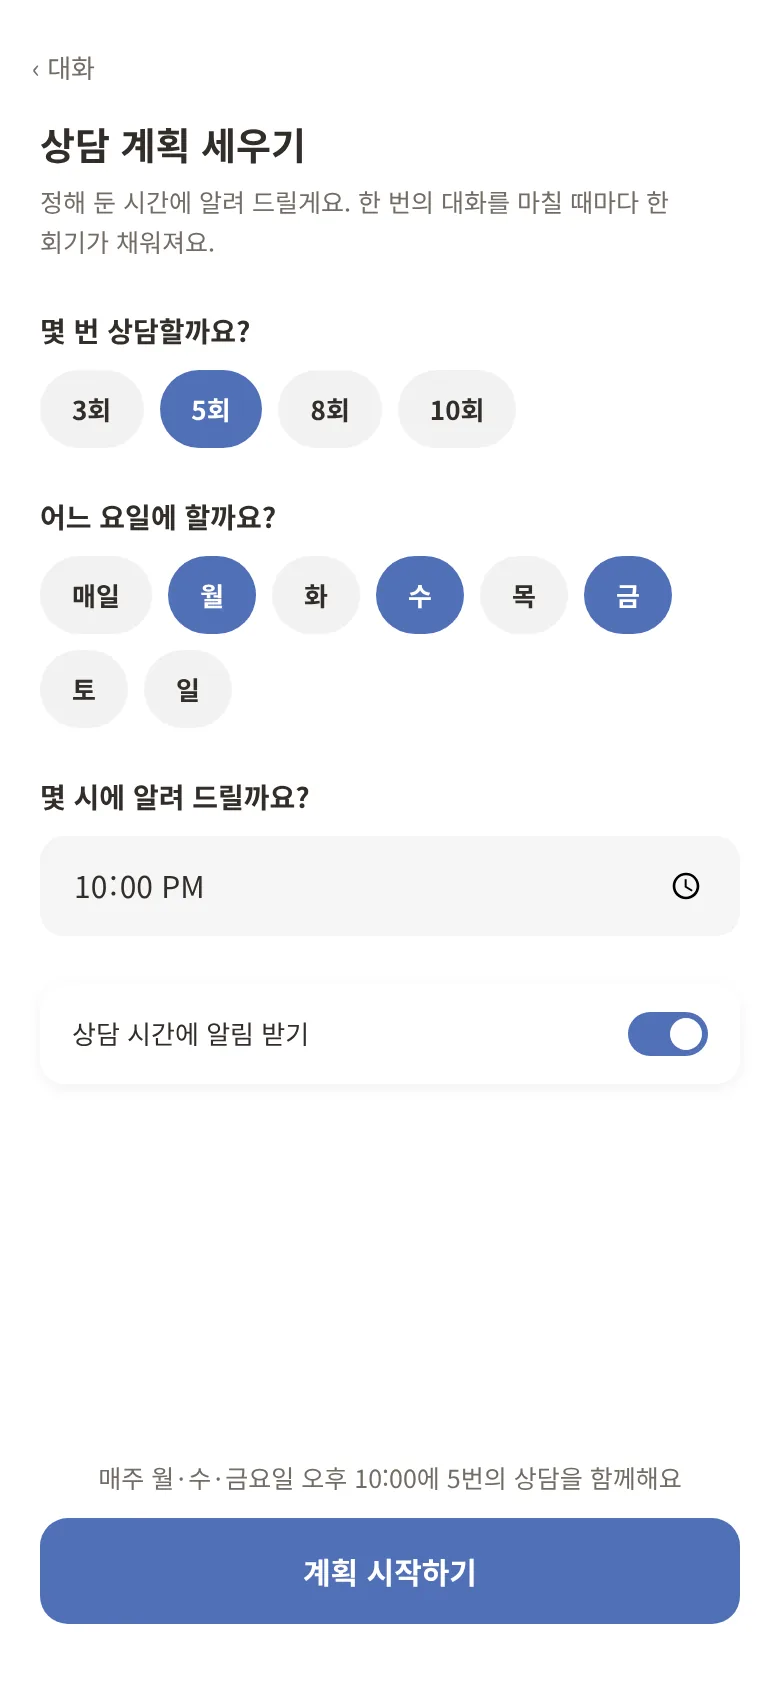
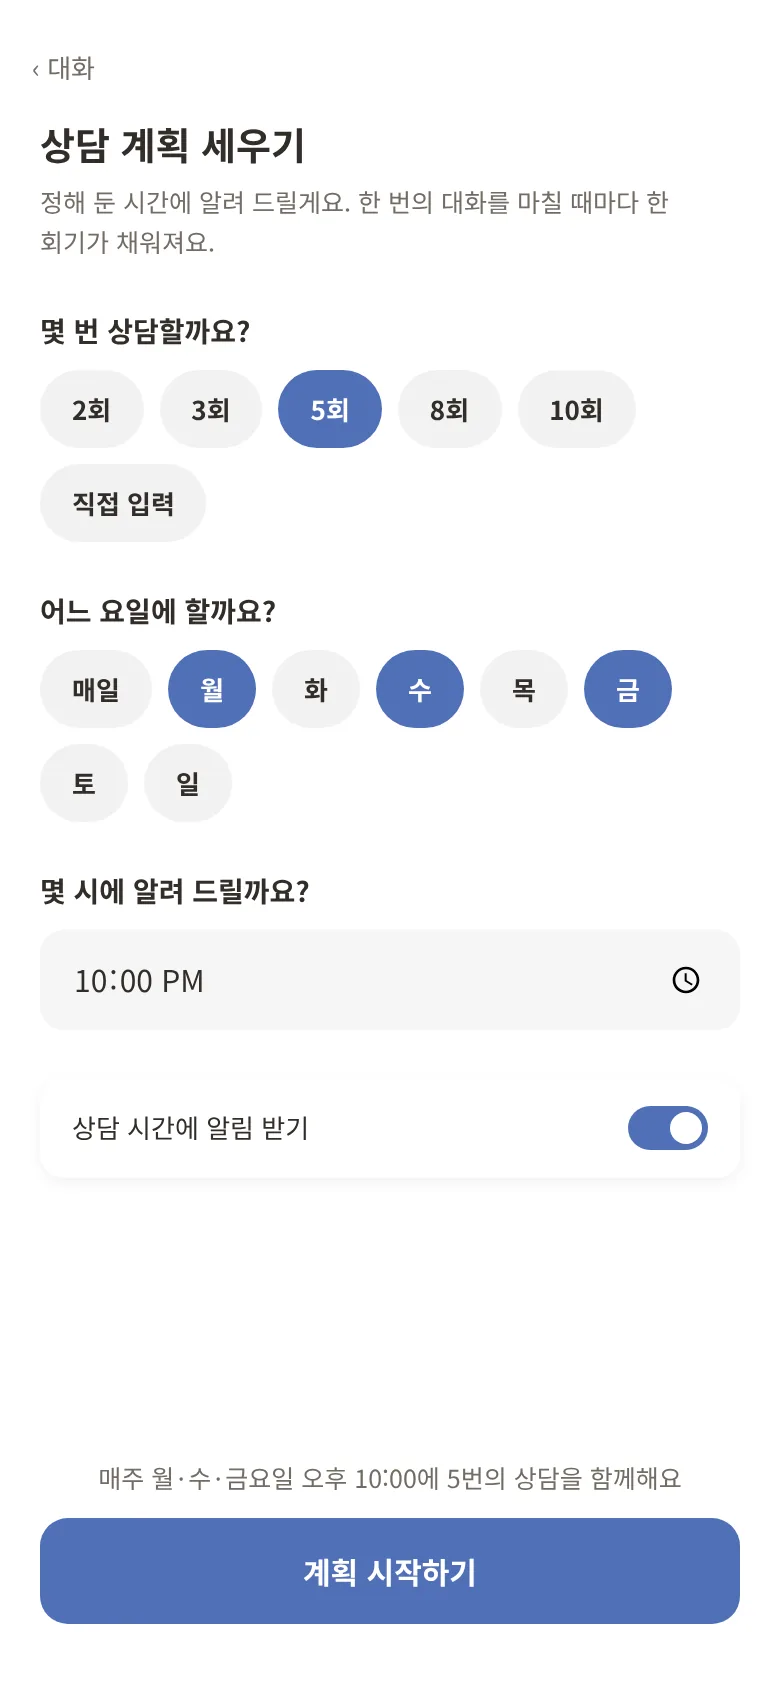
docs: main 의 새 기능(직접 입력, 회기 타임라인, 2회기 인사)에 맞춰 README 화면·기능 설명 갱신
Claude-Session: https://claude.ai/code/session_01LtoBJxjK7bk3AQuSJofbVR

diff --git a/README.md b/README.md
@@ -36,7 +36,7 @@ CBT(인지행동치료) 원리를 바탕으로 생각을 함께 정리해 주는
   <tr>
     <td align="center"><img src="docs/images/04-plan-setup.webp" width="190" alt="상담 계획 세우기" /><br /><sub><b>상담 계획</b> · 횟수·요일·시각</sub></td>
     <td align="center"><img src="docs/images/05-session-done.webp" width="190" alt="회기 요약" /><br /><sub><b>회기 완료</b> · 도장과 요약</sub></td>
-    <td align="center"><img src="docs/images/06-plan-complete.webp" width="190" alt="전체 회기 요약" /><br /><sub><b>모든 회기 완료</b> · 전체 요약</sub></td>
+    <td align="center"><img src="docs/images/06-plan-complete.webp" width="190" alt="전체 회기 요약" /><br /><sub><b>모든 회기 완료</b> · 전체 요약·타임라인</sub></td>
     <td align="center"><img src="docs/images/07-drawer.webp" width="190" alt="메뉴" /><br /><sub><b>메뉴</b> · 지난 대화</sub></td>
   </tr>
 </table>
@@ -51,8 +51,8 @@ CBT(인지행동치료) 원리를 바탕으로 생각을 함께 정리해 주는
 |---|---|
 | 💬 **CBT 상담 대화** | 팀이 학습한 상담 모델(Qwen3.5 27B, RunPod 서버리스)과 대화합니다. 답변은 SSE로 흘려 보여 줍니다 |
 | 🆘 **위기 감지** | 위기 표현(키워드 54개, [초안](docs/crisis-keywords-draft.md))이 나오면 모델을 호출하지 않고 고정 문구와 상담 전화 연결 화면을 띄웁니다. 기록은 사용자와 연결되지 않는 형태로만 남깁니다 |
-| 🗓 **상담 계획 · 알림** | 몇 회기를 어느 요일·시각에 할지 정하면 그 시각에 웹 푸시로 알려 줍니다 |
-| ✅ **회기 도장 · 요약** | 대화에서 "상담 마치기"를 누르면 회기 도장이 찍히고, 오늘 나눈 이야기를 요약해 줍니다. 모든 회기를 마치면 전체 회기를 돌아보는 요약을 만듭니다 |
+| 🗓 **상담 계획 · 알림** | 몇 회기(2·3·5·8·10회 또는 1~12회 직접 입력)를 어느 요일·시각에 할지 정하면 그 시각에 웹 푸시로 알려 줍니다. 2회기부터는 지난 회기를 짚는 인사로 대화를 시작합니다 |
+| ✅ **회기 도장 · 요약** | 대화에서 "상담 마치기"를 누르면 회기 도장이 찍히고, 오늘 나눈 이야기를 요약해 줍니다. 모든 회기를 마치면 전체 회기를 돌아보는 요약과 회기 타임라인을 보여 줍니다 |
 | 🧠 **이전 대화 기억** | 회기마다 기억용 요약을 저장해 다음 대화에 이어서 씁니다 |
 | 👤 **비회원으로 시작** | 가입 없이 바로 쓰고, 나중에 가입하면 대화가 그대로 이어집니다 |
 | 📱 **설치형 웹 앱 (PWA)** | 홈 화면에 설치하고, 오프라인에서도 앱이 열립니다 |
